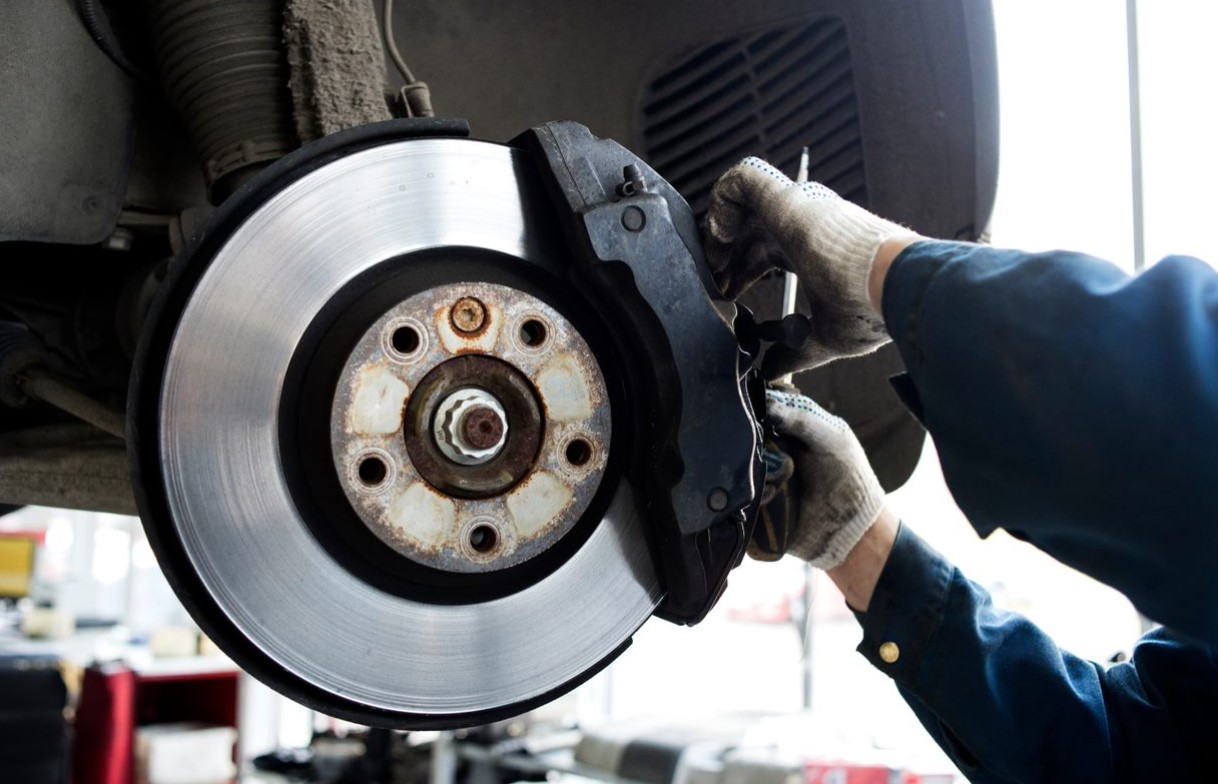
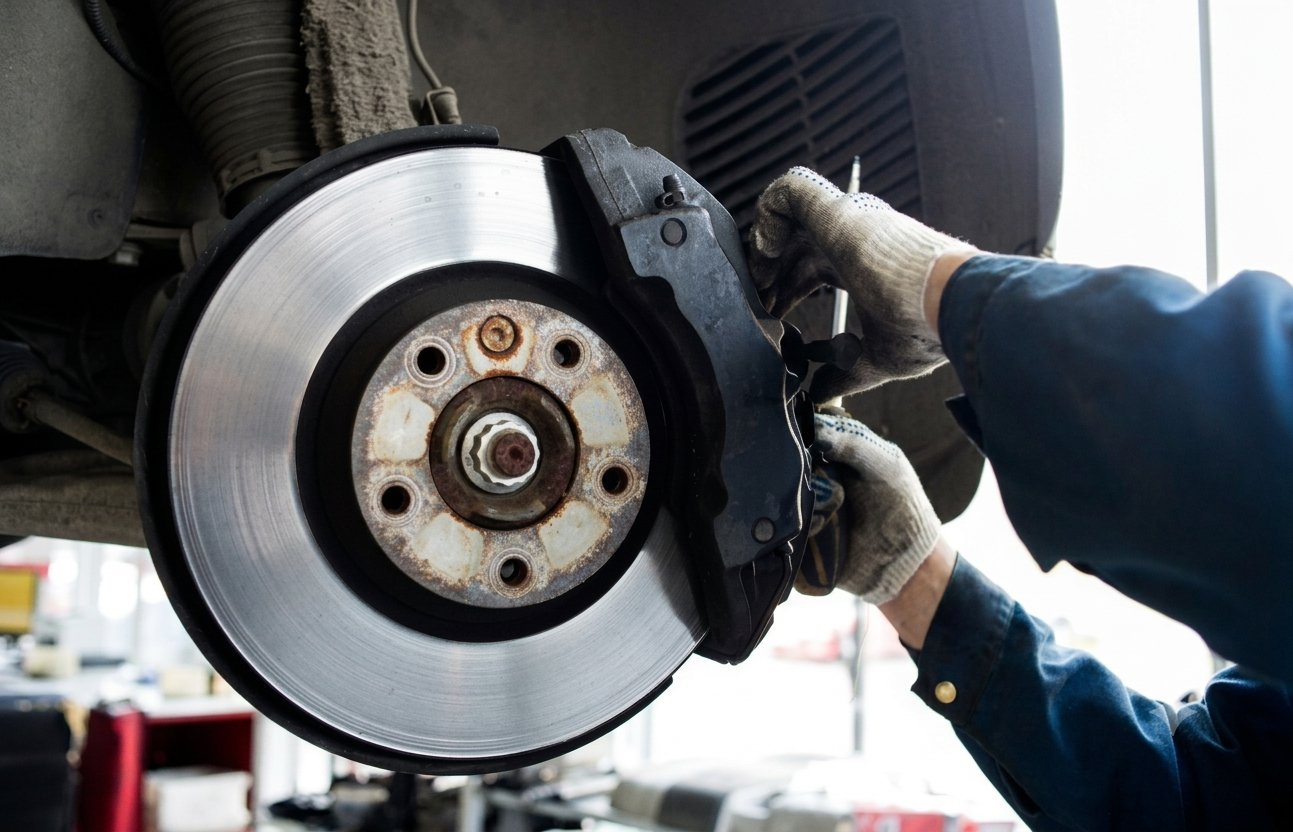
Replace hero with full-resolution optimized image

diff --git a/index.html b/index.html
@@ -1188,8 +1188,8 @@
     <img
       src="o.jpg"
       alt="Technician servicing a brake rotor and caliper during a Subaru brake pad inspection at Findlay Subaru Prescott."
-      width="1218"
-      height="784"
+      width="1293"
+      height="832"
       loading="eager"
       fetchpriority="high"
       decoding="async"